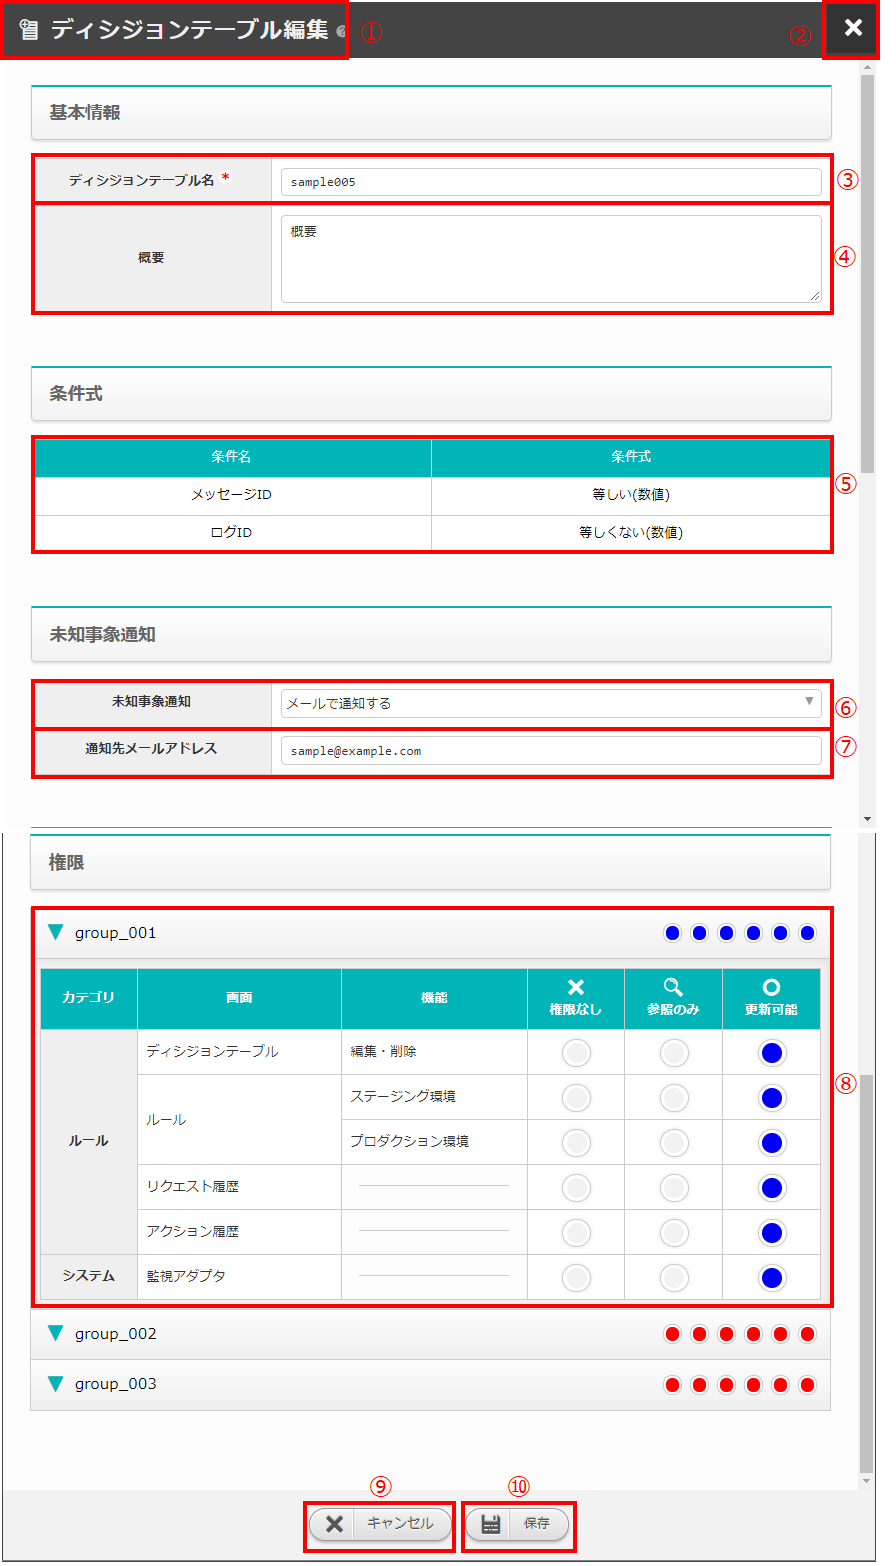
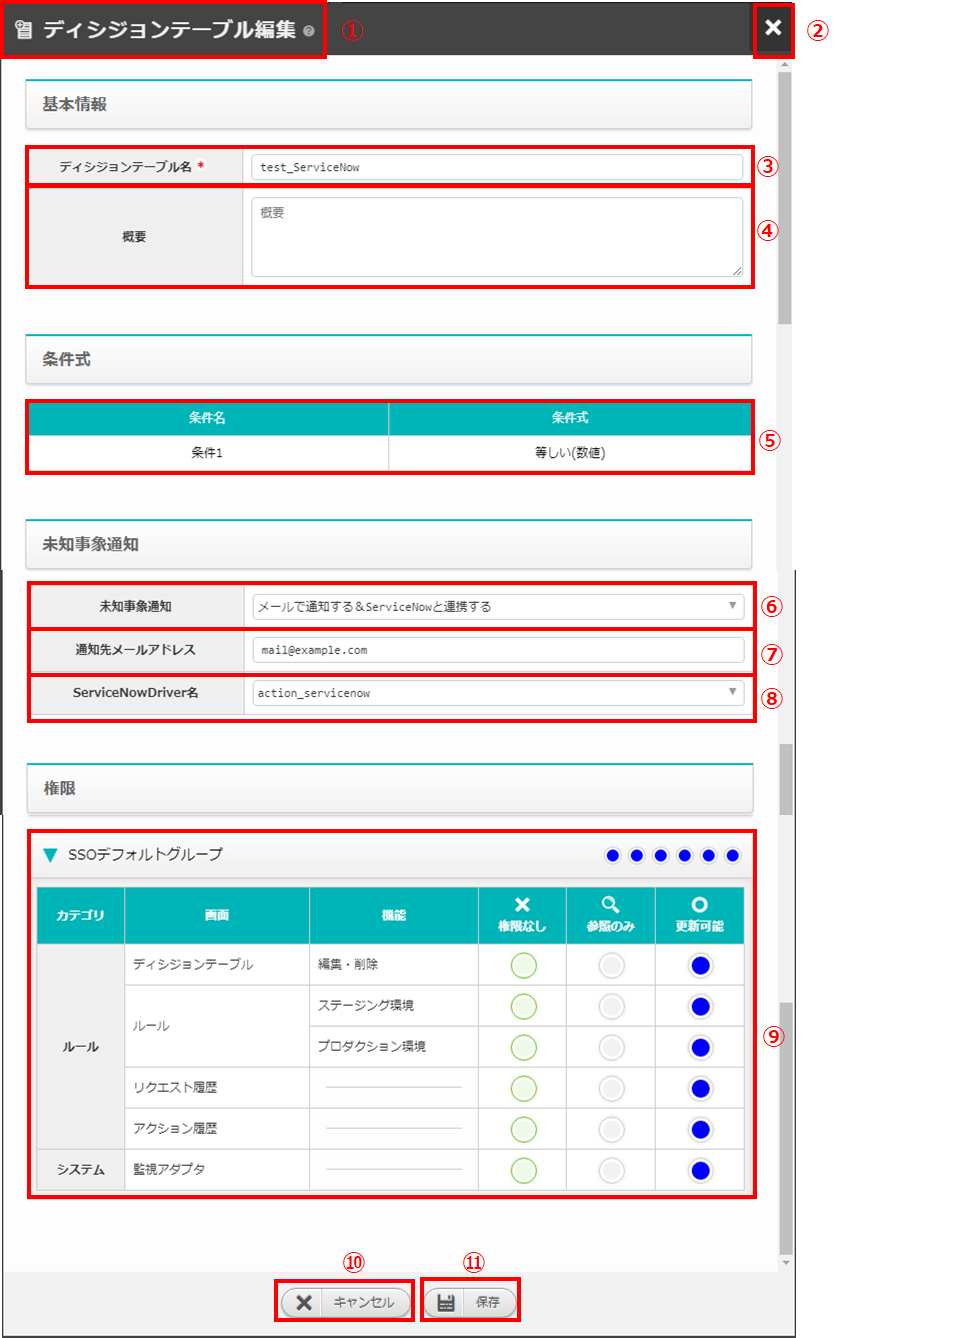
#5943 マニュアル修正(通知君)

Changed region(s): [[0.0, 0.0, 1.0, 1.0]]

diff --git a/oase_documents/decision_table/02_screen_structure.rst b/oase_documents/decision_table/02_screen_structure.rst
@@ -6,7 +6,7 @@
 
 
 2.1 基本画面構成
-================ 
+================
 
 ディシジョンテーブル画面の画面構成は次のとおりです。
 
@@ -114,13 +114,14 @@
    :header: No., 構成要素, 説明
    :widths: 5, 20, 60
 
-   1, 作業画面名,現在表示している作業画面の名称です。
-   2, 閉じるボタン,新規追加画面を閉じてディシジョンテーブル画面に戻ります。
-   3, 作業タブ名,現在表示している作業タブの名称です。
-   4, 未知事象通知,未知事象が発生した際の通知先を選択できます。
-   5, 通知先メールアドレス,通知先のメールアドレスを入力できます。
-   6, 閉じるボタン,新規追加画面を閉じてディシジョンテーブル画面に戻ります。
-   7, 保存するボタン,新規追加情報を保存してディシジョンテーブル画面に戻ります。
+   1, 作業画面名, 現在表示している作業画面の名称です。
+   2, 閉じるボタン, 新規追加画面を閉じてディシジョンテーブル画面に戻ります。
+   3, 作業タブ名, 現在表示している作業タブの名称です。
+   4, 未知事象通知, 未知事象が発生した際の通知先を選択できます。
+   5, 通知先メールアドレス, 通知先のメールアドレスを入力できます。
+   6, ServiceNowDriver名, ServiceNowの接続先をプルダウン選択できます。
+   7, 閉じるボタン, 新規追加画面を閉じてディシジョンテーブル画面に戻ります。
+   8, 保存するボタン, 新規追加情報を保存してディシジョンテーブル画面に戻ります。
 
 
 ディシジョンテーブル詳細（基本情報・権限タブ）画面の画面構成は次のとおりです。
@@ -190,15 +191,16 @@
    :header: No., 構成要素, 説明
    :widths: 5, 20, 60
 
-   1, 作業画面名,現在表示している作業画面の名称です。
-   2, 閉じるボタン,新規追加画面を閉じてディシジョンテーブル画面に戻ります。
-   3, 作業タブ名,現在表示している作業タブの名称です。
-   4, 未知事象通知,未知事象が発生した際の通知先が表示されます。
-   5, 通知先メールアドレス,通知先のメールアドレスが表示されます。
-   6, 複製ボタン,ディシジョンテーブル画面で選択したディシジョンテーブルと同様のディシジョンテーブルを追加することができます。
-   7, 削除ボタン,ディシジョンテーブル画面で選択したディシジョンテーブルを削除しディシジョンテーブル詳細画面を閉じてディシジョンテーブル画面に戻ります。
-   8, 編集ボタン,ディシジョンテーブル画面で選択したディシジョンテーブルを編集することができます。
-   9, DLボタン,ディシジョンテーブル画面で選択したディシジョンテーブルをエクセルファイルでダウンロードすることができます。
+   1, 作業画面名, 現在表示している作業画面の名称です。
+   2, 閉じるボタン, 新規追加画面を閉じてディシジョンテーブル画面に戻ります。
+   3, 作業タブ名, 現在表示している作業タブの名称です。
+   4, 未知事象通知, 未知事象が発生した際の通知先が表示されます。
+   5, 通知先メールアドレス, 通知先のメールアドレスが表示されます。
+   6, ServiceNowDriver名, 連携するServiceNowの接続先ドライバ名が表示されます。
+   7, 複製ボタン, ディシジョンテーブル画面で選択したディシジョンテーブルと同様のディシジョンテーブルを追加することができます。
+   8, 削除ボタン, ディシジョンテーブル画面で選択したディシジョンテーブルを削除しディシジョンテーブル詳細画面を閉じてディシジョンテーブル画面に戻ります。
+   9, 編集ボタン, ディシジョンテーブル画面で選択したディシジョンテーブルを編集することができます。
+   10, DLボタン, ディシジョンテーブル画面で選択したディシジョンテーブルをエクセルファイルでダウンロードすることができます。
 
 
 | ディシジョンテーブル複製画面の画面構成は新規追加画面同様です。
@@ -230,15 +232,16 @@
    :widths: 5, 20, 60
 
    1, 作業画面名, 現在表示している作業画面の名称です。
-   2, 閉じるボタン,変更内容を破棄してディシジョンテーブル編集画面を閉じ、ディシジョンテーブル画面に戻ります。
-   3, ディシジョンテーブル名,ディシジョンテーブル画面で選択したディシジョンテーブルのディシジョンテーブル名が表示され、編集可能です。
-   4, 概要,ディシジョンテーブル画面で選択したディシジョンテーブルの概要が表示され、編集可能です。
-   5, 条件式,ディシジョンテーブル画面で選択したディシジョンテーブルの条件式が表示されます。※編集できません。
-   6, 未知事象通知,ディシジョンテーブル画面で選択した未知事象通知設定が表示され、編集可能です。
-   7, 通知先メールアドレス,ディシジョンテーブル画面で入力したメールアドレスが表示され、編集可能です。
-   8, 権限,ディシジョンテーブル画面で選択したディシジョンテーブルに対してどのグループにどのような権限が設定されているか表示され、編集可能です。
-   9, キャンセルボタン,変更内容を破棄してディシジョンテーブル編集画面を閉じ、ディシジョンテーブル画面に戻ります。
-   10, 保存するボタン,変更内容を保存してディシジョンテーブル編集画面を閉じ、ディシジョンテーブル画面に戻ります。
+   2, 閉じるボタン, 変更内容を破棄してディシジョンテーブル編集画面を閉じ、ディシジョンテーブル画面に戻ります。
+   3, ディシジョンテーブル名, ディシジョンテーブル画面で選択したディシジョンテーブルのディシジョンテーブル名が表示され、編集可能です。
+   4, 概要, ディシジョンテーブル画面で選択したディシジョンテーブルの概要が表示され、編集可能です。
+   5, 条件式, ディシジョンテーブル画面で選択したディシジョンテーブルの条件式が表示されます。※編集できません。
+   6, 未知事象通知, ディシジョンテーブル画面で選択した未知事象通知設定が表示され、編集可能です。
+   7, 通知先メールアドレス, ディシジョンテーブル画面で入力したメールアドレスが表示され、編集可能です。
+   8, ServiceNowDriver名, ディシジョンテーブル画面で選択した接続先ServiceNowドライバ名が表示され、編集可能です。
+   9, 権限, ディシジョンテーブル画面で選択したディシジョンテーブルに対してどのグループにどのような権限が設定されているか表示され、編集可能です。
+   10, キャンセルボタン, 変更内容を破棄してディシジョンテーブル編集画面を閉じ、ディシジョンテーブル画面に戻ります。
+   11, 保存するボタン, 変更内容を保存してディシジョンテーブル編集画面を閉じ、ディシジョンテーブル画面に戻ります。
 
 
 2.2 ディシジョンテーブル画面の操作方法
@@ -458,11 +461,12 @@
    :header: No., 構成要素, 説明
    :widths: 5, 20, 60
 
-   1, 閉じるボタン,新規追加画面を閉じてディシジョンテーブル画面に戻ります。
-   2, 未知事象通知,プルダウンメニューから選択してください。
-   3, 通知先メールアドレス,任意入力項目です。512文字以内で入力してください。
-   4, 閉じるボタン,新規追加画面を閉じてディシジョンテーブル画面に戻ります。
-   5, 保存するボタン,新規追加情報を保存してディシジョンテーブル画面に戻ります。
+   1, 閉じるボタン, 新規追加画面を閉じてディシジョンテーブル画面に戻ります。
+   2, 未知事象通知, プルダウンメニューから選択してください。
+   3, 通知先メールアドレス, 任意入力項目です。512文字以内で入力してください。
+   4, ServiceNowDriver名, 任意選択項目です。プルダウンメニューから接続先ServiceNowドライバ名を選択してください。
+   5, 閉じるボタン, 新規追加画面を閉じてディシジョンテーブル画面に戻ります。
+   6, 保存するボタン, 新規追加情報を保存してディシジョンテーブル画面に戻ります。
 
 
 
@@ -547,17 +551,18 @@
    :header: No., 構成要素, 説明
    :widths: 5, 20, 60
 
-   1, 閉じるボタン,変更内容を破棄してディシジョンテーブル編集画面を閉じ、ディシジョンテーブル画面に戻ります。
-   2, ディシジョンテーブル名,ディシジョンテーブル画面で選択したディシジョンテーブルのディシジョンテーブル名が表示され、編集可能です。入力必須項目です。64文字以内で入力してください。
-   3, 概要,ディシジョンテーブル画面で選択したディシジョンテーブルの概要が表示され、編集可能です。任意入力項目です。4000文字以内で入力してください。
-   4, 未知事象通知,プルダウンメニューから選択してください。
-   5, 通知先メールアドレス,任意入力項目です。512文字以内で入力してください。
-   6, グループ,グループごとに省略されている画面を表示することができます。
-   7, 権限,ディシジョンテーブルに対しグループがどのような権限を持っているか簡易的に表示しています。左から「ディシジョンテーブル（編集・削除）」「ルール（ステージング環境）」「ルール（プロダクション環境）」「リクエスト履歴」「アクション履歴」「監視アダプタ」の権限を表しています。
-   8,権限なし,ラジオボタンを有効にし保存すると、対象のディシジョンテーブルを表示する権限を失います。
-   9,参照のみ,ラジオボタンを有効にし保存すると、対象のディシジョンテーブルを表示（一部操作）することができます。
-   10,更新可能, ラジオボタンを有効にし保存すると、対象のディシジョンテーブルを編集および処理の実行ができます。
-   11,キャンセルボタン,変更内容を破棄してディシジョンテーブル編集画面を閉じ、ディシジョンテーブル画面に戻ります。
-   12,保存するボタン,変更内容を保存してディシジョンテーブル編集画面を閉じ、ディシジョンテーブル画面に戻ります。
+   1, 閉じるボタン, 変更内容を破棄してディシジョンテーブル編集画面を閉じ、ディシジョンテーブル画面に戻ります。
+   2, ディシジョンテーブル名, ディシジョンテーブル画面で選択したディシジョンテーブルのディシジョンテーブル名が表示され、編集可能です。入力必須項目です。64文字以内で入力してください。
+   3, 概要, ディシジョンテーブル画面で選択したディシジョンテーブルの概要が表示され、編集可能です。任意入力項目です。4000文字以内で入力してください。
+   4, 未知事象通知, プルダウンメニューから選択してください。
+   5, 通知先メールアドレス, 任意入力項目です。512文字以内で入力してください。
+   6, ServiceNowDriver名, 任意選択項目です。プルダウンメニューから接続先ServiceNowドライバ名を選択してください。
+   7, グループ, グループごとに省略されている画面を表示することができます。
+   8, 権限, ディシジョンテーブルに対しグループがどのような権限を持っているか簡易的に表示しています。左から「ディシジョンテーブル（編集・削除）」「ルール（ステージング環境）」「ルール（プロダクション環境）」「リクエスト履歴」「アクション履歴」「監視アダプタ」の権限を表しています。
+   9, 権限なし, ラジオボタンを有効にし保存すると、対象のディシジョンテーブルを表示する権限を失います。
+   10, 参照のみ, ラジオボタンを有効にし保存すると、対象のディシジョンテーブルを表示（一部操作）することができます。
+   11, 更新可能, ラジオボタンを有効にし保存すると、対象のディシジョンテーブルを編集および処理の実行ができます。
+   12, キャンセルボタン, 変更内容を破棄してディシジョンテーブル編集画面を閉じ、ディシジョンテーブル画面に戻ります。
+   13, 保存するボタン, 変更内容を保存してディシジョンテーブル編集画面を閉じ、ディシジョンテーブル画面に戻ります。
 
 
